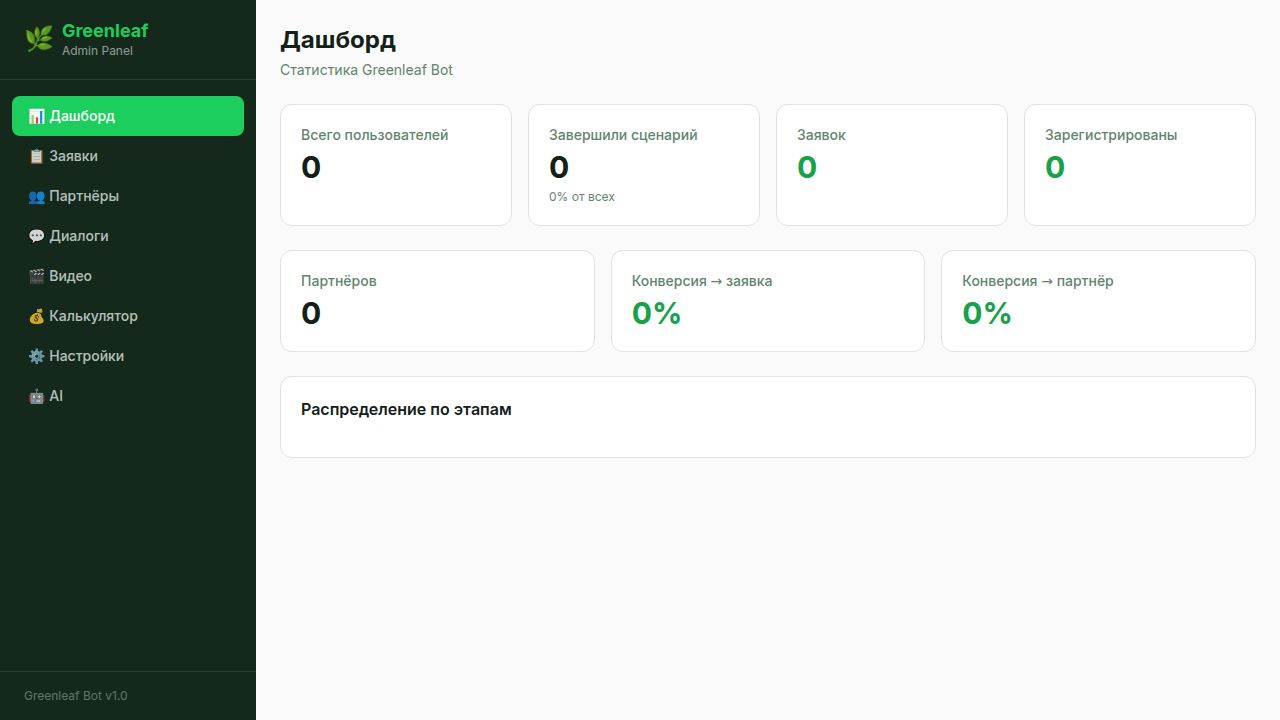
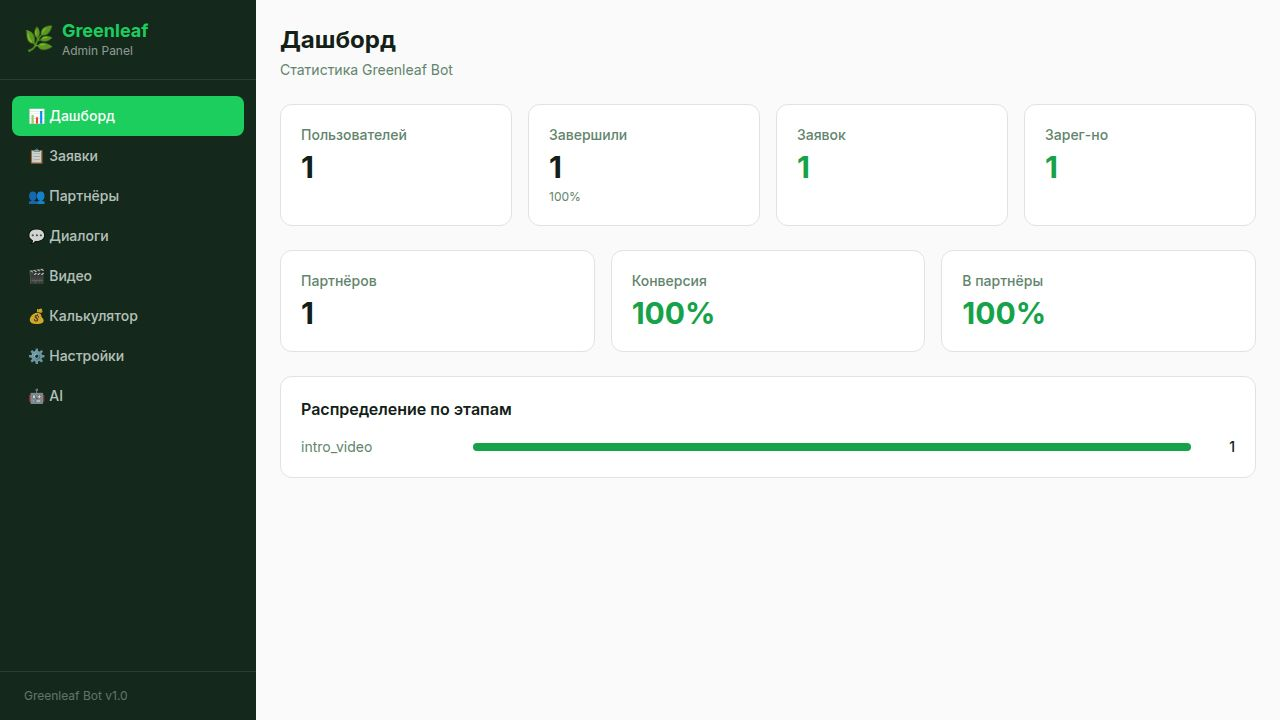
Make the web admin panel responsive for mobile devices
Update the admin panel's UI and layout to ensure optimal viewing and interaction on mobile devices by adjusting padding, font sizes, and element stacking using Tailwind CSS responsive utilities.

Replit-Commit-Author: Agent
Replit-Commit-Session-Id: a5c7c997-70d7-4acd-8e2a-0862ff7bd12c
Replit-Commit-Checkpoint-Type: full_checkpoint
Replit-Commit-Event-Id: 7ff9a1ca-22fd-4217-9604-1a19eb0b9f65
Replit-Commit-Screenshot-Url: https://storage.googleapis.com/screenshot-production-us-central1/4d670a59-0520-454b-9e4a-c3e34483fb66/a5c7c997-70d7-4acd-8e2a-0862ff7bd12c/nO8XjQm
Replit-Helium-Checkpoint-Created: true

diff --git a/artifacts/admin/src/pages/Calculator.tsx b/artifacts/admin/src/pages/Calculator.tsx
@@ -11,9 +11,9 @@ export default function CalculatorPage() {
   const fmt = (n: number) => n.toLocaleString("ru");
 
   return (
-    <div className="space-y-6">
+    <div className="space-y-4 md:space-y-6">
       <div>
-        <h1 className="text-2xl font-bold">Калькулятор</h1>
+        <h1 className="text-xl md:text-2xl font-bold">Калькулятор</h1>
         <p className="text-sm text-muted-foreground mt-1">13 категорий расходов на бытовую химию</p>
       </div>
 
@@ -21,43 +21,43 @@ export default function CalculatorPage() {
 
       {data && (
         <>
-          <div className="grid grid-cols-3 gap-4">
+          <div className="grid grid-cols-1 sm:grid-cols-3 gap-3 md:gap-4">
             <div className="bg-gray-50 border rounded-xl p-4 text-center">
-              <div className="text-xs text-muted-foreground mb-1">Масс-маркет (1 чел/год)</div>
-              <div className="text-2xl font-bold">{fmt(data.totals.mass)} ₽</div>
+              <div className="text-xs text-muted-foreground mb-1">Масс-маркет</div>
+              <div className="text-xl md:text-2xl font-bold">{fmt(data.totals.mass)} ₽</div>
             </div>
             <div className="bg-green-50 border border-green-200 rounded-xl p-4 text-center">
-              <div className="text-xs text-muted-foreground mb-1">Greenleaf (1 чел/год)</div>
-              <div className="text-2xl font-bold text-green-700">{fmt(data.totals.green)} ₽</div>
+              <div className="text-xs text-muted-foreground mb-1">Greenleaf</div>
+              <div className="text-xl md:text-2xl font-bold text-green-700">{fmt(data.totals.green)} ₽</div>
             </div>
             <div className="bg-primary/5 border border-primary/20 rounded-xl p-4 text-center">
-              <div className="text-xs text-muted-foreground mb-1">Экономия (1 чел/год)</div>
-              <div className="text-2xl font-bold text-primary">{fmt(data.totals.saving)} ₽</div>
+              <div className="text-xs text-muted-foreground mb-1">Экономия</div>
+              <div className="text-xl md:text-2xl font-bold text-primary">{fmt(data.totals.saving)} ₽</div>
             </div>
           </div>
 
-          <div className="bg-card rounded-xl border overflow-hidden">
-            <table className="w-full text-sm">
+          <div className="bg-card rounded-xl border overflow-hidden overflow-x-auto">
+            <table className="w-full text-sm min-w-[640px]">
               <thead className="bg-muted">
                 <tr>
-                  <th className="text-left px-4 py-3 font-medium">#</th>
-                  <th className="text-left px-4 py-3 font-medium">Категория</th>
-                  <th className="text-right px-4 py-3 font-medium">Масс-маркет</th>
-                  <th className="text-right px-4 py-3 font-medium">Greenleaf</th>
-                  <th className="text-right px-4 py-3 font-medium">Экономия</th>
-                  <th className="text-center px-4 py-3 font-medium">Статус</th>
-                  <th className="px-4 py-3"></th>
+                  <th className="text-left px-3 md:px-4 py-3 font-medium">#</th>
+                  <th className="text-left px-3 md:px-4 py-3 font-medium">Категория</th>
+                  <th className="text-right px-3 md:px-4 py-3 font-medium">Масс</th>
+                  <th className="text-right px-3 md:px-4 py-3 font-medium">GL</th>
+                  <th className="text-right px-3 md:px-4 py-3 font-medium">Экон.</th>
+                  <th className="text-center px-3 md:px-4 py-3 font-medium">Статус</th>
+                  <th className="px-3 md:px-4 py-3"></th>
                 </tr>
               </thead>
               <tbody className="divide-y">
                 {data.items.map((item) => (
                   <tr key={item.id} className={`hover:bg-muted/40 transition ${!item.isActive ? "opacity-50" : ""}`}>
-                    <td className="px-4 py-3 text-muted-foreground">{item.order}</td>
-                    <td className="px-4 py-3 font-medium">{item.category}</td>
-                    <td className="px-4 py-3 text-right">{fmt(item.massMarketYearPrice)} ₽</td>
-                    <td className="px-4 py-3 text-right text-green-700">{fmt(item.greenleafYearPrice)} ₽</td>
-                    <td className="px-4 py-3 text-right text-primary font-medium">{fmt(item.savingYear)} ₽</td>
-                    <td className="px-4 py-3 text-center">
+                    <td className="px-3 md:px-4 py-3 text-muted-foreground">{item.order}</td>
+                    <td className="px-3 md:px-4 py-3 font-medium">{item.category}</td>
+                    <td className="px-3 md:px-4 py-3 text-right">{fmt(item.massMarketYearPrice)} ₽</td>
+                    <td className="px-3 md:px-4 py-3 text-right text-green-700">{fmt(item.greenleafYearPrice)} ₽</td>
+                    <td className="px-3 md:px-4 py-3 text-right text-primary font-medium">{fmt(item.savingYear)} ₽</td>
+                    <td className="px-3 md:px-4 py-3 text-center">
                       <button
                         onClick={() => update.mutate({ id: item.id, data: { isActive: !item.isActive } })}
                         className={`text-xs px-2 py-1 rounded-full border transition ${item.isActive ? "bg-green-50 text-green-700 border-green-200" : "bg-gray-100 text-gray-500 border-gray-200"}`}
@@ -65,7 +65,7 @@ export default function CalculatorPage() {
                         {item.isActive ? "вкл" : "выкл"}
                       </button>
                     </td>
-                    <td className="px-4 py-3">
+                    <td className="px-3 md:px-4 py-3">
                       <button
                         onClick={() => setEditing({ id: item.id, mass: String(item.massMarketYearPrice), green: String(item.greenleafYearPrice) })}
                         className="text-xs text-primary hover:underline"

diff --git a/artifacts/admin/src/pages/Partners.tsx b/artifacts/admin/src/pages/Partners.tsx
@@ -14,13 +14,13 @@ export default function PartnersPage() {
   const [editForm, setEditForm] = useState({ name: "", refCode: "", telegram: "", phone: "", telegramUserId: "" });
 
   return (
-    <div className="space-y-6">
-      <div className="flex items-center justify-between">
+    <div className="space-y-4 md:space-y-6">
+      <div className="flex flex-col sm:flex-row sm:items-center sm:justify-between gap-3">
         <div>
-          <h1 className="text-2xl font-bold">Партнёры</h1>
+          <h1 className="text-xl md:text-2xl font-bold">Партнёры</h1>
           <p className="text-sm text-muted-foreground mt-1">{partners.length} партнёров</p>
         </div>
-        <button onClick={() => setShowCreate(true)} className="bg-primary text-primary-foreground px-4 py-2 rounded-lg text-sm font-medium hover:opacity-90 transition">
+        <button onClick={() => setShowCreate(true)} className="bg-primary text-primary-foreground px-4 py-2 rounded-lg text-sm font-medium hover:opacity-90 transition w-full sm:w-auto">
           ➕ Создать
         </button>
       </div>
@@ -30,10 +30,10 @@ export default function PartnersPage() {
       <div className="space-y-3">
         {partners.map((p) => (
           <div key={p.id} className="bg-card border rounded-xl p-4">
-            <div className="flex items-start justify-between gap-4">
-              <div className="flex-1">
-                <div className="flex items-center gap-2">
-                  <span className="font-semibold">{p.name}</span>
+            <div className="flex flex-col sm:flex-row sm:items-start justify-between gap-3">
+              <div className="flex-1 min-w-0">
+                <div className="flex items-center gap-2 flex-wrap">
+                  <span className="font-semibold text-base">{p.name}</span>
                   <span className={`text-xs px-2 py-0.5 rounded-full font-medium ${p.isActive ? "bg-green-100 text-green-700" : "bg-gray-100 text-gray-500"}`}>
                     {p.isActive ? "активен" : "неактивен"}
                   </span>
@@ -44,23 +44,23 @@ export default function PartnersPage() {
                     <a href={p.partnerLink} target="_blank" rel="noopener noreferrer">{p.partnerLink}</a>
                   </div>
                 )}
-                <div className="flex gap-4 mt-2 text-sm text-muted-foreground flex-wrap">
+                <div className="flex flex-wrap gap-x-4 gap-y-1 mt-2 text-sm text-muted-foreground">
                   {p.telegram && <span>TG: {p.telegram}</span>}
                   {p.phone && <span>📞 {p.phone}</span>}
                   <span>Заявок: <strong className="text-foreground">{p.leadsCount}</strong></span>
                   <span>TG ID: <code className="bg-muted px-1 rounded">{p.telegramUserId ?? "—"}</code></span>
                 </div>
               </div>
-              <div className="flex flex-col gap-2 items-end">
+              <div className="flex flex-row sm:flex-col gap-2 sm:items-end shrink-0">
                 <button
                   onClick={() => updatePartner.mutate({ id: p.id, data: { isActive: !p.isActive } })}
-                  className={`text-sm px-3 py-1.5 rounded-lg border transition ${p.isActive ? "hover:bg-destructive hover:text-destructive-foreground hover:border-destructive" : "hover:bg-primary hover:text-primary-foreground hover:border-primary"}`}
+                  className={`text-sm px-3 py-1.5 rounded-lg border transition flex-1 sm:flex-none ${p.isActive ? "hover:bg-destructive hover:text-destructive-foreground hover:border-destructive" : "hover:bg-primary hover:text-primary-foreground hover:border-primary"}`}
                 >
                   {p.isActive ? "Деактивировать" : "Активировать"}
                 </button>
                 <button
                   onClick={() => { setEditingPartner(p); setEditForm({ name: p.name, refCode: p.refCode, telegram: p.telegram || "", phone: p.phone || "", telegramUserId: p.telegramUserId != null ? String(p.telegramUserId) : "" }); }}
-                  className="text-xs px-3 py-1 rounded-lg border hover:bg-muted transition"
+                  className="text-xs px-3 py-1.5 rounded-lg border hover:bg-muted transition flex-1 sm:flex-none"
                 >
                   ✏ Редактировать
                 </button>

diff --git a/artifacts/admin/src/pages/Leads.tsx b/artifacts/admin/src/pages/Leads.tsx
@@ -22,13 +22,13 @@ export default function LeadsPage() {
   const convertLead = useConvertLeadToPartner({ mutation: { onSuccess: () => { qc.invalidateQueries({ queryKey: getGetLeadsQueryKey() }); qc.invalidateQueries({ queryKey: getGetPartnersQueryKey() }); setConvertId(null); setRefCode(""); } } });
 
   return (
-    <div className="space-y-6">
-      <div className="flex items-center justify-between">
+    <div className="space-y-4 md:space-y-6">
+      <div className="flex flex-col sm:flex-row sm:items-center sm:justify-between gap-3">
         <div>
-          <h1 className="text-2xl font-bold">Заявки</h1>
+          <h1 className="text-xl md:text-2xl font-bold">Заявки</h1>
           <p className="text-sm text-muted-foreground mt-1">{leads.length} заявок</p>
         </div>
-        <select value={statusFilter} onChange={(e) => setStatusFilter(e.target.value)} className="border rounded-lg px-3 py-2 text-sm bg-card">
+        <select value={statusFilter} onChange={(e) => setStatusFilter(e.target.value)} className="border rounded-lg px-3 py-2 text-sm bg-card w-full sm:w-auto">
           <option value="">Все статусы</option>
           {STATUS_OPTIONS.map((s) => <option key={s} value={s}>{s}</option>)}
         </select>
@@ -39,28 +39,28 @@ export default function LeadsPage() {
       <div className="space-y-3">
         {leads.map((lead) => (
           <div key={lead.id} className="bg-card border rounded-xl p-4">
-            <div className="flex items-start justify-between gap-4">
+            <div className="flex flex-col sm:flex-row sm:items-start justify-between gap-3">
               <div className="flex-1 min-w-0">
                 <div className="flex items-center gap-2 flex-wrap">
-                  <span className="font-semibold">{lead.name}</span>
+                  <span className="font-semibold text-base">{lead.name}</span>
                   <span className={`text-xs px-2 py-0.5 rounded-full font-medium ${STATUS_COLORS[lead.status] || "bg-gray-100 text-gray-600"}`}>{lead.status}</span>
                 </div>
                 <div className="text-sm text-muted-foreground mt-1">{lead.contact}</div>
                 {lead.comment && <div className="text-sm text-muted-foreground mt-1 italic">{lead.comment}</div>}
                 <div className="text-xs text-muted-foreground mt-2">{new Date(lead.createdAt).toLocaleString("ru")}</div>
               </div>
-              <div className="flex flex-col gap-2 shrink-0">
+              <div className="flex flex-row sm:flex-col gap-2 shrink-0">
                 <select
                   value={lead.status}
                   onChange={(e) => updateLead.mutate({ id: lead.id, data: { status: e.target.value } })}
-                  className="border rounded px-2 py-1 text-sm bg-card"
+                  className="border rounded-lg px-2 py-1.5 text-sm bg-card flex-1 sm:flex-none"
                 >
                   {STATUS_OPTIONS.map((s) => <option key={s} value={s}>{s}</option>)}
                 </select>
                 {lead.status === "зарегистрирован" && !lead.convertedPartnerId && (
                   <button
                     onClick={() => setConvertId(lead.id)}
-                    className="bg-primary text-primary-foreground text-xs px-3 py-1.5 rounded-lg hover:opacity-90 transition"
+                    className="bg-primary text-primary-foreground text-xs px-3 py-1.5 rounded-lg hover:opacity-90 transition whitespace-nowrap"
                   >
                     👥 В партнёры
                   </button>

diff --git a/artifacts/admin/src/pages/Ai.tsx b/artifacts/admin/src/pages/Ai.tsx
@@ -8,21 +8,21 @@ export default function AiPage() {
   const testAi = useTestAi({ mutation: { onSuccess: () => qc.invalidateQueries() } });
 
   return (
-    <div className="space-y-6">
+    <div className="space-y-4 md:space-y-6">
       <div>
-        <h1 className="text-2xl font-bold">AI / Proxy API</h1>
+        <h1 className="text-xl md:text-2xl font-bold">AI / Proxy API</h1>
         <p className="text-sm text-muted-foreground mt-1">Статус и логи ИИ-модуля</p>
       </div>
 
       {isLoading && <div className="text-center text-muted-foreground py-8">Загрузка...</div>}
 
       {status && (
-        <div className="bg-card border rounded-xl p-6 space-y-4">
+        <div className="bg-card border rounded-xl p-4 md:p-6 space-y-4">
           <div className="flex items-center gap-3">
             <div className={`w-3 h-3 rounded-full ${status.available ? "bg-green-500" : "bg-red-500"} animate-pulse`} />
-            <span className="font-semibold">{status.available ? "✅ Proxy API доступен" : "❌ Proxy API недоступен"}</span>
+            <span className="font-semibold text-base md:text-lg">{status.available ? "✅ Proxy API доступен" : "❌ Proxy API недоступен"}</span>
           </div>
-          <div className="grid grid-cols-2 gap-3 text-sm">
+          <div className="grid grid-cols-1 sm:grid-cols-2 gap-3 text-sm">
             <div className="bg-muted/50 rounded-lg p-3">
               <div className="text-xs text-muted-foreground mb-1">API Key</div>
               <div className={status.hasKey ? "text-green-600" : "text-red-600"}>{status.hasKey ? "✅ задан" : "❌ не задан"}</div>
@@ -39,7 +39,7 @@ export default function AiPage() {
           <button
             onClick={() => testAi.mutate()}
             disabled={testAi.isPending}
-            className="bg-primary text-primary-foreground px-4 py-2 rounded-lg text-sm font-medium hover:opacity-90 transition disabled:opacity-50"
+            className="bg-primary text-primary-foreground px-4 py-2 rounded-lg text-sm font-medium hover:opacity-90 transition disabled:opacity-50 w-full sm:w-auto"
           >
             {testAi.isPending ? "Тестирую..." : "🔄 Тест подключения"}
           </button>
@@ -52,13 +52,13 @@ export default function AiPage() {
       )}
 
       <div className="bg-card border rounded-xl overflow-hidden">
-        <div className="px-4 py-3 border-b bg-muted/50">
+        <div className="px-3 md:px-4 py-3 border-b bg-muted/50">
           <h2 className="font-semibold text-sm">Последние AI-запросы ({logs.length})</h2>
         </div>
         <div className="divide-y max-h-96 overflow-y-auto">
           {logs.length === 0 && <div className="text-center text-muted-foreground py-8 text-sm">Логов нет</div>}
           {logs.map((log) => (
-            <div key={log.id} className="px-4 py-3 text-xs">
+            <div key={log.id} className="px-3 md:px-4 py-3 text-xs">
               <div className="flex items-center gap-2 mb-1">
                 <span className={`px-1.5 py-0.5 rounded text-xs font-mono ${log.success ? "bg-green-100 text-green-700" : "bg-red-100 text-red-700"}`}>{log.success ? "OK" : "ERR"}</span>
                 <span className="font-medium">{log.promptType}</span>

diff --git a/artifacts/admin/src/pages/Videos.tsx b/artifacts/admin/src/pages/Videos.tsx
@@ -10,9 +10,9 @@ export default function VideosPage() {
   const [urlInput, setUrlInput] = useState("");
 
   return (
-    <div className="space-y-6">
+    <div className="space-y-4 md:space-y-6">
       <div>
-        <h1 className="text-2xl font-bold">Видеоблоки</h1>
+        <h1 className="text-xl md:text-2xl font-bold">Видеоблоки</h1>
         <p className="text-sm text-muted-foreground mt-1">Управление видео в сценарии</p>
       </div>
 
@@ -21,10 +21,10 @@ export default function VideosPage() {
       <div className="space-y-3">
         {videos.map((v) => (
           <div key={v.id} className="bg-card border rounded-xl p-4">
-            <div className="flex items-start justify-between gap-4">
+            <div className="flex flex-col sm:flex-row sm:items-start justify-between gap-3">
               <div className="flex-1 min-w-0">
-                <div className="flex items-center gap-2">
-                  <span className="font-semibold">{v.title}</span>
+                <div className="flex items-center gap-2 flex-wrap">
+                  <span className="font-semibold text-base">{v.title}</span>
                   <span className={`text-xs px-2 py-0.5 rounded-full ${v.isActive ? "bg-green-100 text-green-700" : "bg-gray-100 text-gray-500"}`}>
                     {v.isActive ? "активно" : "выключено"}
                   </span>
@@ -36,16 +36,16 @@ export default function VideosPage() {
                   <div className="text-sm text-muted-foreground italic mt-1">URL не задан</div>
                 )}
               </div>
-              <div className="flex flex-col gap-2">
+              <div className="flex flex-row sm:flex-col gap-2 shrink-0">
                 <button
                   onClick={() => { setEditing(v.id); setUrlInput(v.url || ""); }}
-                  className="text-sm border px-3 py-1.5 rounded-lg hover:bg-muted transition"
+                  className="text-sm border px-3 py-1.5 rounded-lg hover:bg-muted transition flex-1 sm:flex-none"
                 >
                   ✏ Изменить
                 </button>
                 <button
                   onClick={() => update.mutate({ id: v.id, data: { isActive: !v.isActive } })}
-                  className={`text-sm border px-3 py-1.5 rounded-lg transition ${v.isActive ? "hover:bg-destructive/10 hover:border-destructive text-destructive" : "hover:bg-primary/10 hover:border-primary text-primary"}`}
+                  className={`text-sm border px-3 py-1.5 rounded-lg transition flex-1 sm:flex-none ${v.isActive ? "hover:bg-destructive/10 hover:border-destructive text-destructive" : "hover:bg-primary/10 hover:border-primary text-primary"}`}
                 >
                   {v.isActive ? "Выключить" : "Включить"}
                 </button>

diff --git a/artifacts/admin/src/pages/Dashboard.tsx b/artifacts/admin/src/pages/Dashboard.tsx
@@ -25,17 +25,17 @@ export default function Dashboard() {
         <p className="text-muted-foreground text-sm mt-1">Статистика Greenleaf Bot</p>
       </div>
 
-      <div className="grid grid-cols-2 md:grid-cols-4 gap-4">
-        <StatCard title="Всего пользователей" value={data.totalUsers} />
-        <StatCard title="Завершили сценарий" value={data.completedScenario} sub={`${data.totalUsers ? Math.round((data.completedScenario / data.totalUsers) * 100) : 0}% от всех`} />
+      <div className="grid grid-cols-2 lg:grid-cols-4 gap-3 md:gap-4">
+        <StatCard title="Пользователей" value={data.totalUsers} />
+        <StatCard title="Завершили" value={data.completedScenario} sub={`${data.totalUsers ? Math.round((data.completedScenario / data.totalUsers) * 100) : 0}%`} />
         <StatCard title="Заявок" value={data.totalLeads} color="text-primary" />
-        <StatCard title="Зарегистрированы" value={data.registeredLeads} color="text-primary" />
+        <StatCard title="Зарег-но" value={data.registeredLeads} color="text-primary" />
       </div>
 
-      <div className="grid grid-cols-1 md:grid-cols-3 gap-4">
+      <div className="grid grid-cols-2 lg:grid-cols-3 gap-3 md:gap-4">
         <StatCard title="Партнёров" value={data.totalPartners} />
-        <StatCard title="Конверсия → заявка" value={`${data.conversionToLead}%`} color="text-primary" />
-        <StatCard title="Конверсия → партнёр" value={`${data.conversionToPartner}%`} color="text-primary" />
+        <StatCard title="Конверсия" value={`${data.conversionToLead}%`} color="text-primary" />
+        <StatCard title="В партнёры" value={`${data.conversionToPartner}%`} color="text-primary" />
       </div>
 
       <div className="bg-card rounded-xl border p-5">

diff --git a/artifacts/admin/src/pages/Settings.tsx b/artifacts/admin/src/pages/Settings.tsx
@@ -20,9 +20,9 @@ export default function SettingsPage() {
   const allKeys = settings ? Object.keys(settings) : [];
 
   return (
-    <div className="space-y-6">
+    <div className="space-y-4 md:space-y-6">
       <div>
-        <h1 className="text-2xl font-bold">Настройки</h1>
+        <h1 className="text-xl md:text-2xl font-bold">Настройки</h1>
         <p className="text-sm text-muted-foreground mt-1">Конфигурация бота</p>
       </div>
 
@@ -56,8 +56,8 @@ export default function SettingsPage() {
       </div>
 
       {editing && (
-        <div className="fixed inset-0 bg-black/50 flex items-center justify-center z-50">
-          <div className="bg-card rounded-xl border p-6 w-[500px] shadow-xl space-y-4">
+        <div className="fixed inset-0 bg-black/50 flex items-center justify-center z-50 px-4">
+          <div className="bg-card rounded-xl border p-5 md:p-6 w-full max-w-[500px] shadow-xl space-y-4">
             <h2 className="font-bold text-lg">Изменить настройку</h2>
             <div>
               <label className="text-sm text-muted-foreground block mb-1">{SETTING_LABELS[editing] || editing}</label>

diff --git a/artifacts/admin/src/pages/Sessions.tsx b/artifacts/admin/src/pages/Sessions.tsx
@@ -7,15 +7,15 @@ export default function SessionsPage() {
   const { data: messages = [] } = useGetSessionMessages(selectedId!, { query: { enabled: !!selectedId, queryKey: ["sessionMessages", selectedId] } });
 
   return (
-    <div className="space-y-6">
+    <div className="space-y-4 md:space-y-6">
       <div>
-        <h1 className="text-2xl font-bold">Диалоги</h1>
+        <h1 className="text-xl md:text-2xl font-bold">Диалоги</h1>
         <p className="text-sm text-muted-foreground mt-1">{sessions.length} сессий</p>
       </div>
 
       {isLoading && <div className="text-muted-foreground text-center py-8">Загрузка...</div>}
 
-      <div className="grid grid-cols-1 md:grid-cols-2 gap-4">
+      <div className="grid grid-cols-1 lg:grid-cols-2 gap-4">
         <div className="space-y-2">
           {sessions.map((s) => (
             <button

diff --git a/artifacts/admin/src/App.tsx b/artifacts/admin/src/App.tsx
@@ -78,7 +78,7 @@ function Layout() {
           </button>
           <span className="font-bold text-sidebar-primary">🌿 Greenleaf Admin</span>
         </header>
-        <main className="flex-1 overflow-y-auto bg-background p-6">
+        <main className="flex-1 overflow-y-auto bg-background p-3 md:p-6">
           <Switch>
             <Route path="/" component={Dashboard} />
             <Route path="/leads" component={LeadsPage} />

diff --git a/artifacts/admin/src/index.css b/artifacts/admin/src/index.css
@@ -72,4 +72,5 @@
 @layer base {
   * { @apply border-border; }
   body { @apply font-sans antialiased bg-background text-foreground; }
+  html { -webkit-text-size-adjust: 100%; }
 }
